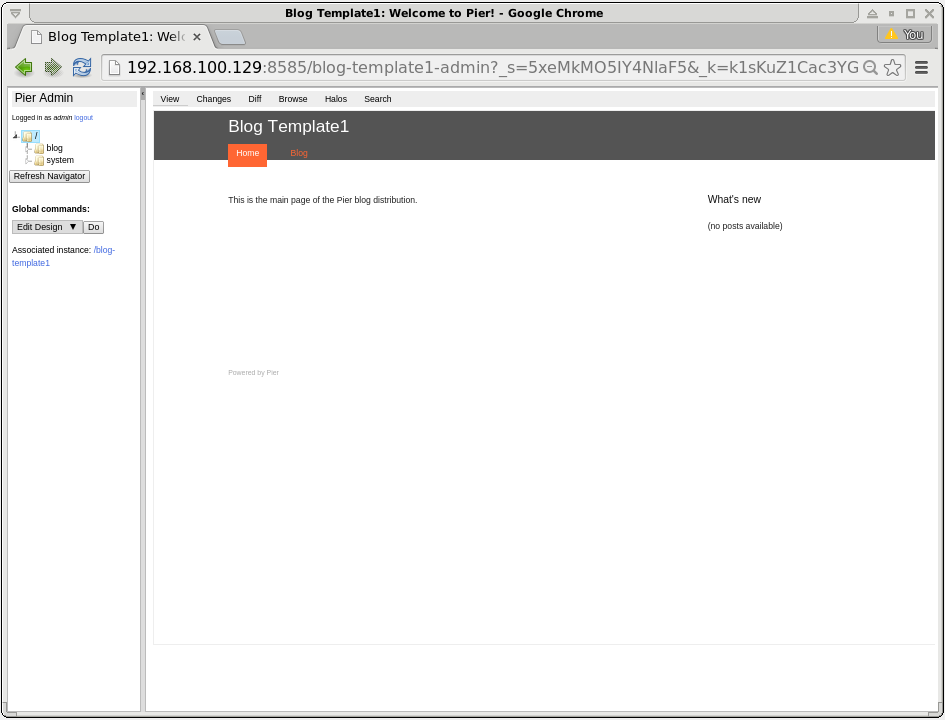
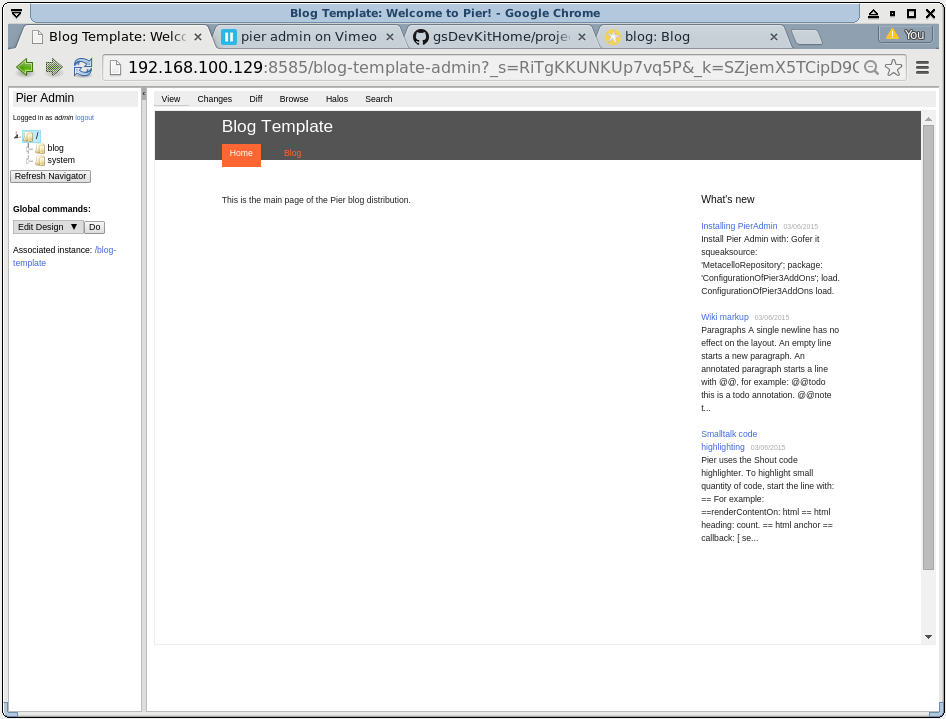
Issue #58: tweak pier docs [ci skip]

diff --git a/projects/pier3/README.md b/projects/pier3/README.md
@@ -33,7 +33,11 @@ Click on the `New from template` tab, select the `Blog Template` and then press 
 
 ![pier blog template][4]
 
-Fill out the `Create an admin user information` and press `Register admin user`; press `ok` to create the site; press the `Create kernel` button (you can leave the fields blank); answer `yes` to create `Pier Admin instance`; press`'ok` to `Continue to login`; and finally press the `Login` button:
+Fill out the `Create an admin user information` and press `Register admin user`; press `ok` to create the site, which brings us to the `Customize blog Template` screen:
+
+![pier customize blog template][7] 
+
+Click on the `add sample content` check box; press the `Create kernel` button (you can leave the other fields blank); answer `yes` to create `Pier Admin instance`; press`'ok` to `Continue to login`; and finally press the `Login` button:
 
 ![pier blog template1][5]
 
@@ -70,3 +74,4 @@ To run a Swazoo Seaside web server for Pier:
 [4]: images/pier_blog_template.png
 [5]: images/pier_blog_template1.png
 [6]: https://vimeo.com/32749535
+[7]: images/pier_customize_blog_template.png
